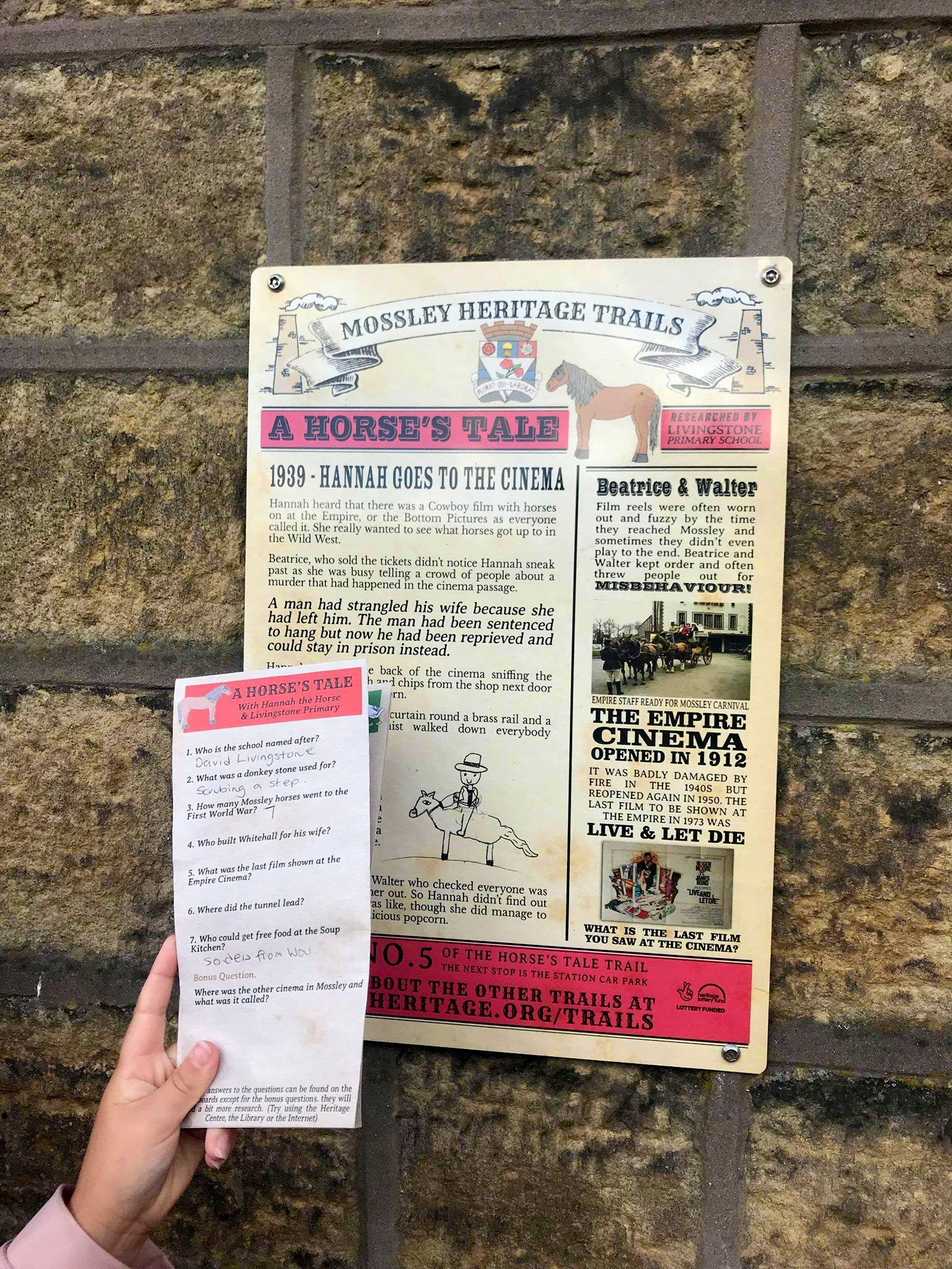
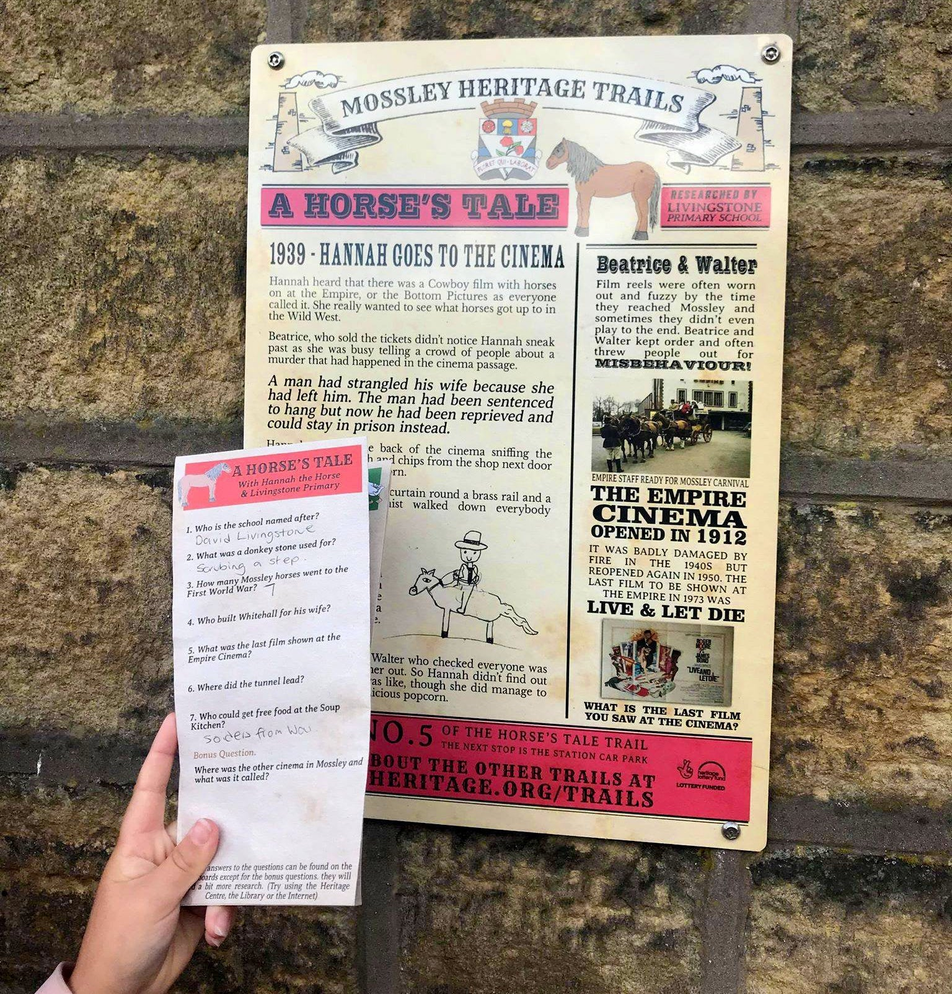
Fixes to reqests

diff --git a/_sass/_typography.sass b/_sass/_typography.sass
@@ -178,6 +178,8 @@ p.narrow
 .narrowish
   +for-tablet-landscape-up
     width: 83.3%
+  // +for-desktop-up
+  //   width: 81%
 
 .narrow--centered
   margin-left: auto
@@ -226,3 +228,7 @@ p.spacer
       border-width: 0
       margin: 0
       padding: 0
+
+img.space-top
+  +for-desktop-up
+    margin-top: 8rem !important

diff --git a/_sass/_simple-layouts.sass b/_sass/_simple-layouts.sass
@@ -55,6 +55,9 @@
         grid-column: 1
       .layout__image
         grid-column: 2
+      +for-desktop-up
+        grid-template-columns: 5fr 6fr
+        grid-gap: 0 8rem
 
     .layout--enjoy-events
       grid-template-rows: 1fr auto auto 1fr

diff --git a/trails.md b/trails.md
@@ -66,7 +66,7 @@ Want to bring a school group? We deliver Mossley trail and heritage workshops fo
 A team of 134 project workers with ages ranging from 8–84 (powered by a shared enthusiasm for heritage) trawled the internet, read local books, studied old photos, mined the memories of relatives and explored the archives at the heritage centre to ensure that the trails bring the Mossley of the past to life.
 {:.bigger--on-portrait}
 
-![Photograph of a trail board](/images/trails/MH_Trails_photo_of_boards_treated.jpg)
+![Photograph of a trail board](/images/trails/MH_Trails_photo_of_boards_treated.jpg){:.space-top}
 {:.layout__image}
 
 <div markdown="1">

diff --git a/civic-society.md b/civic-society.md
@@ -85,10 +85,10 @@ Civic Society members can volunteer for the Heritage Centre rota, provide suppor
 ![Some illustrations of the area](/images/civic-society/MH_CivicSociety_4_Volunteer@2x.png)
 {:.layout__image}
 
-Contact Dyllis Wolinski on 01457 837 287, fill in a form at the centre, or see our other contact options.
+Contact Dyllis on 01457 837 287 or fill in our volunteering form below if you want to get involved.
 {:.narrowish}
 
-[Get in touch](/contact){:.btn .btn--1}
+[Volunteering form](https://forms.gle/XuLcsgcvEgJRfnZy9){:.btn .btn--1}
 </div>
 </section>
 

diff --git a/history.md b/history.md
@@ -38,6 +38,8 @@ scheme: history
 
 
 <section class="section section--centred" markdown="1">
-[Discover more at the centre](/visit){:.btn .btn--1} [Download History Resource List](/){:.btn .btn--1}
+[Discover more at the centre](/visit){:.btn .btn--1}
+
+<!-- [Download History Resource List](/){:.btn .btn--1} -->
 
 </section>
